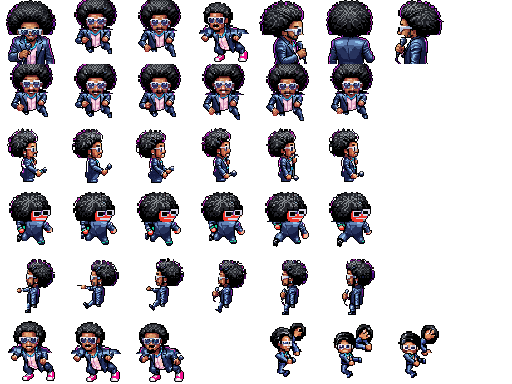
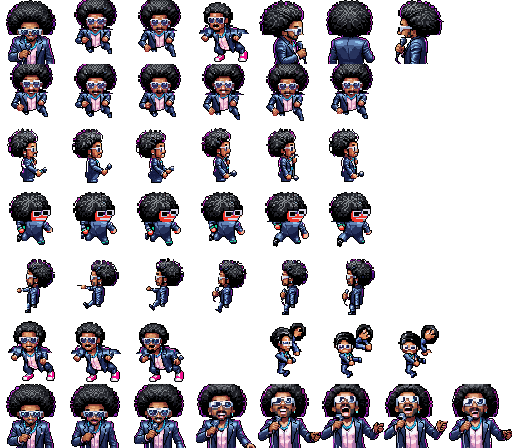
WIP: PixelLab sing/dance/wonk animations (in progress)
Claude-Session: https://claude.ai/code/session_01VMaYe2CeeKzcmBuCUqa9Rb

diff --git a/src/game/scenes/ClubScene.ts b/src/game/scenes/ClubScene.ts
@@ -10,7 +10,7 @@ import { switchTo } from "../Flow";
 import { synth } from "../audio/Synth";
 import { FONT, title } from "../ui/theme";
 import { dir, say } from "../../content/dsl";
-import { animateWalker, backdrop } from "../gfx/HD";
+import { animateWalker, backdrop, perfCycle, playPerf } from "../gfx/HD";
 import { bump, maxBottles } from "../systems/stats";
 import { CHARACTERS, PLAYABLE_ORDER } from "../../data/characters";
 import { TOUCH } from "../ui/TouchControls";
@@ -68,6 +68,8 @@ interface Rival {
   skill: number;
   result?: "perfect" | "over" | "under";
   finishedAt?: number;
+  /** where they are in their wonk loop (real art only) */
+  pumpPhase?: number;
   fill?: Phaser.GameObjects.Rectangle;
   label?: Phaser.GameObjects.Text;
 }
@@ -246,10 +248,12 @@ export class ClubScene extends Phaser.Scene {
     // the routine
     if (!this.onBreak && !this.dancerDown) {
       const t = time / 1000;
-      this.dancer.x = 430 + Math.sin(t * 1.3) * 60;
-      this.dancer.y = 330 - Math.abs(Math.sin(t * 3.2)) * 8;
-      // hip sway on the beat, turning to face each side now and then
-      if (!this.tweens.isTweening(this.dancer)) this.dancer.setAngle(Math.sin(t * 6.3) * 9);
+      // the real routine when the art has it; otherwise the old hip-sway wobble
+      const real = playPerf(this.dancer, "dance", time, 9);
+      this.dancer.x = 430 + Math.sin(t * 1.3) * (real ? 45 : 60);
+      this.dancer.y = real ? 330 : 330 - Math.abs(Math.sin(t * 3.2)) * 8;
+      // turning to face each side now and then
+      if (!real && !this.tweens.isTweening(this.dancer)) this.dancer.setAngle(Math.sin(t * 6.3) * 9);
       this.dancer.setFlipX(Math.floor(t / 1.9) % 2 === 1);
       if (Math.random() < 0.004) this.tweens.add({ targets: this.dancer, angle: 360, duration: 500, onComplete: () => this.dancer.setAngle(0) });
       if (time > this.nextSwap && !this.busy) this.swapDancer();
@@ -258,6 +262,12 @@ export class ClubScene extends Phaser.Scene {
     this.band.forEach((b, i) => {
       if (this.ko.has(b.spr) || this.musicStopped) return;
       const t = time / 1000 + i * 0.8;
+      // SanMik sings, SanChz dances; the old walk-and-bounce if the art isn't there
+      if (playPerf(b.spr, i ? "dance" : "sing", time, i ? 9 : 8) || playPerf(b.spr, "dance", time, 9, 3)) {
+        b.spr.x = b.x + Math.sin(t * 0.9) * 10;
+        b.spr.y = 335;
+        return;
+      }
       b.spr.x = b.x + Math.sin(t * 2) * 22;
       b.spr.y = 335 - Math.abs(Math.sin(t * 5.5)) * 9;
       animateWalker(b.spr, Math.cos(t * 2), 0, true, time);
@@ -586,7 +596,7 @@ export class ClubScene extends Phaser.Scene {
     const home = { x: this.dancer.x, y: this.dancer.y };
     this.tweens.add({ targets: this.dancer, x: this.me.x - 50, y: this.me.y - 6, duration: 500 });
     await new Promise((r) => this.time.delayedCall(550, r));
-    this.tweens.add({ targets: this.dancer, angle: { from: -10, to: 10 }, yoyo: true, repeat: 7, duration: 150 });
+    if (!perfCycle(this.dancer, "dance")) this.tweens.add({ targets: this.dancer, angle: { from: -10, to: 10 }, yoyo: true, repeat: 7, duration: 150 });
     await squeeze(this, (l) => this.talk(l), { name, spr: this.dancer }, this.me, [dir(`${name} does a private dance for you. It's mostly spinning. It's very good spinning.`)]);
     this.dancer.setAngle(0);
     this.tweens.add({ targets: this.dancer, x: home.x, y: home.y, duration: 500 });
@@ -665,6 +675,7 @@ export class ClubScene extends Phaser.Scene {
       const all: Rival[] = ids.map((id, i) => {
         const spr = this.add.sprite(x0 + i * gap, 250, `spr_${id}`, 0).setScale(3.2);
         spr.setData("x0", spr.x);
+        spr.setData("pump", perfCycle(spr, "wonk"));
         ui.add(spr);
         const wrist = addWrist(this, spr.x - 8, 278, { ...wristLook(id, CHARACTERS as any), scale: 1.6, speed: 90 + Math.random() * 60 });
         ui.add(wrist.obj);
@@ -708,6 +719,7 @@ export class ClubScene extends Phaser.Scene {
       const finishOne = (r: Rival, res: "perfect" | "over" | "under") => {
         r.result = res;
         r.finishedAt = t;
+        if (r.spr.getData("pump")) r.spr.setFrame(0);
         const txt = res === "perfect" ? "KREZZED!" : res === "over" ? "TOO EARLY" : "NOTHING";
         r.label = this.add.text(r.spr.x, 190, txt, { fontFamily: "Impact, sans-serif", fontSize: "20px", color: res === "perfect" ? "#ffffff" : "#f9a8d4", stroke: "#000", strokeThickness: 5 }).setOrigin(0.5).setScale(0.3);
         ui.add(r.label);
@@ -747,6 +759,12 @@ export class ClubScene extends Phaser.Scene {
             if (r.gauge >= Z.lo && r.gauge <= Z.hi) r.inZone += 16;
             r.fill!.setSize(20, 140 * r.gauge).setFillStyle(r.gauge > Z.hi ? 0xef4444 : r.gauge >= Z.lo ? 0x22c55e : 0xff4fa3);
             r.spr.setX((r.spr.getData("x0") as number) + (Math.random() - 0.5) * (2 + r.gauge * 8));
+            // arms pumping behind the bar, faster the closer they get
+            const pump = r.spr.getData("pump") as number[] | null;
+            if (pump) {
+              r.pumpPhase = (r.pumpPhase ?? 0) + 0.016 * (7 + r.gauge * 12);
+              r.spr.setFrame(pump[Math.floor(r.pumpPhase) % pump.length]);
+            }
             if (r.gauge >= OVER) finishOne(r, "over");
             else if (r.inZone >= r.zone.need) finishOne(r, "perfect");
           }

diff --git a/src/game/scenes/MinigameScene.ts b/src/game/scenes/MinigameScene.ts
@@ -12,7 +12,7 @@ import { addWrist, type Wrist } from "../gfx/Wrist";
 import { dir, gabor, say } from "../../content/dsl";
 import { arcStepAt, completeStep, maybeFinishArc } from "../systems/arcs";
 import { bump } from "../systems/stats";
-import { animateWalker, backdrop } from "../gfx/HD";
+import { animateWalker, backdrop, perfCycle, playPerf } from "../gfx/HD";
 import { CHARACTERS, PLAYABLE_ORDER } from "../../data/characters";
 import { TOUCH } from "../ui/TouchControls";
 
@@ -1411,10 +1411,14 @@ export class MinigameScene extends Phaser.Scene {
         if (keys?.D.isDown || keys?.RIGHT.isDown) moveDir = 1;
         if (holdX !== null && Math.abs(holdX - benn.x) > 12) moveDir = holdX < benn.x ? -1 : 1;
         benn.x = Phaser.Math.Clamp(benn.x + moveDir * 0.32 * dt, 120, 840);
-        if (now >= pranceUntil) animateWalker(benn, moveDir, 0, moveDir !== 0, now);
-        // crowd bounces to the beat
+        // standing still, he rocks out (real art); otherwise the walk cycle
+        if (now >= pranceUntil && (moveDir !== 0 || !playPerf(benn, "dance", now, 9))) animateWalker(benn, moveDir, 0, moveDir !== 0, now);
+        // crowd bounces to the beat (and cheers, where the art has a cheer)
         const beat = Math.sin(now / 160);
-        crowd.forEach((c, i) => c.setY(470 + (i % 2) * 22 - Math.max(0, Math.sin(now / 160 + i)) * 10));
+        crowd.forEach((c, i) => {
+          c.setY(470 + (i % 2) * 22 - Math.max(0, Math.sin(now / 160 + i)) * 10);
+          playPerf(c, "victory", now, 7, i);
+        });
         lights.forEach((l, i) => l.setAlpha(0.1 + Math.max(0, Math.sin(now / 300 + i)) * 0.18));
         void beat;
         // catches
@@ -1470,6 +1474,7 @@ export class MinigameScene extends Phaser.Scene {
     let caught = 0;
     let target = 480;
     let pranceUntil = 0;
+    let rockUntil = 0;
     let holdX: number | null = null;
     let lastThrow = 0;
     const keys = this.input.keyboard?.addKeys("A,D,LEFT,RIGHT") as Record<string, Phaser.Input.Keyboard.Key> | undefined;
@@ -1613,10 +1618,15 @@ export class MinigameScene extends Phaser.Scene {
       callback: () => {
         if (this.ended) return;
         const now = this.time.now;
-        // Krebon performs: wanders the stage and prances
-        if (Math.abs(target - krebon.x) < 6 || Math.random() < 0.004) target = 140 + Math.random() * 680;
-        const dir0 = Math.sign(target - krebon.x);
-        if (now >= pranceUntil) {
+        // Krebon performs: wanders the stage, stops to rock out (real art only), and prances
+        if (now < rockUntil) {
+          playPerf(krebon, "dance", now, 9);
+        } else if (Math.abs(target - krebon.x) < 6 || Math.random() < 0.004) {
+          target = 140 + Math.random() * 680;
+          if (perfCycle(krebon, "dance") && Math.random() < 0.7) rockUntil = now + 1800 + Math.random() * 2600;
+        }
+        const dir0 = now < rockUntil ? 0 : Math.sign(target - krebon.x);
+        if (now >= pranceUntil && now >= rockUntil) {
           krebon.x += dir0 * 0.18 * 16;
           animateWalker(krebon, dir0, 0, dir0 !== 0, now);
           if (Math.random() < 0.006) {
@@ -1650,7 +1660,10 @@ export class MinigameScene extends Phaser.Scene {
           }
         }
         animateWalker(me, mv, 0, mv !== 0, now);
-        crowd.forEach((c, i) => c.setY(478 + (i % 2) * 20 - Math.max(0, Math.sin(now / 160 + i)) * 10));
+        crowd.forEach((c, i) => {
+          c.setY(478 + (i % 2) * 20 - Math.max(0, Math.sin(now / 160 + i)) * 10);
+          playPerf(c, "victory", now, 7, i);
+        });
         lights.forEach((l, i) => l.setAlpha(0.1 + Math.max(0, Math.sin(now / 300 + i)) * 0.18));
         const pr = synth.fileProgress();
         const elapsed = (now - start) / 1000;

diff --git a/src/game/combat/Wonk.ts b/src/game/combat/Wonk.ts
@@ -4,6 +4,7 @@ import { TOUCH } from "../ui/TouchControls";
 import { activeMods } from "../../data/historicalRevisions";
 import { G } from "../G";
 import { addWrist, wristLook } from "../gfx/Wrist";
+import { perfCycle } from "../gfx/HD";
 import { CHARACTERS } from "../../data/characters";
 import type { Player } from "./Player";
 import { kd } from "../systems/kreddle";
@@ -81,6 +82,9 @@ export function startWonk(p: Player, now: number) {
   // the wrist, going like the clappers under the bar
   const wrist = addWrist(sc, 306, 340, { ...wristLook(p.id, CHARACTERS as any), scale: 2.2 });
   ui.add(wrist.obj);
+  // the real thing, when the art has it: an arm pumping away (the business end stays behind the bar)
+  const pump = perfCycle(hero, "wonk");
+  let pumpPhase = 0;
   // keep it decent: a big censor bar over the business end
   const bar = sc.add.rectangle(320, 352, 170, 54, 0x000000);
   const barT = sc.add.text(320, 352, "CENSORED", { fontFamily: "Impact, sans-serif", fontSize: "24px", color: "#ffffff" }).setOrigin(0.5);
@@ -168,6 +172,10 @@ export function startWonk(p: Player, now: number) {
         nextMoan = t + 380 + Math.random() * 260 - Math.min(180, rate * 22);
         const k = Math.min(1, gauge * 1.1);
         synth.voice(gauge > ZONE_HI ? "grunt" : zone ? "oh" : Math.random() < 0.3 ? "grunt" : "mmm", 0.22 + k * 0.38, pitch * (0.88 + k * 0.4));
+      }
+      if (pump && rate > 0) {
+        pumpPhase += (dt / 1000) * Math.min(20, 5 + rate * 2.5);
+        hero.setFrame(pump[Math.floor(pumpPhase) % pump.length]);
       }
       hero.setX(320 + (Math.random() - 0.5) * Math.min(14, rate * 1.6));
       hero.setAngle((Math.random() - 0.5) * Math.min(8, rate));

diff --git a/src/game/gfx/HD.ts b/src/game/gfx/HD.ts
@@ -21,6 +21,10 @@ export interface CharMeta {
   hurt?: Record<string, number[]>;
   victory?: Record<string, number[]>;
   death?: Record<string, number[]>;
+  /** performance loops (south; some also east): dancing, singing into a mic, wonking (always drawn behind a censor bar) */
+  dance?: Record<string, number[]>;
+  sing?: Record<string, number[]>;
+  wonk?: Record<string, number[]>;
 }
 
 export interface ArtManifest {
@@ -121,6 +125,27 @@ export function attackFrame(spr: Phaser.GameObjects.Sprite, t = 0.5): number {
   const cyc = meta.attack[f] ?? meta.attack.east ?? meta.attack.south;
   if (!cyc) return 3;
   return cyc[Math.min(cyc.length - 1, Math.floor(t * cyc.length))];
+}
+
+export type PerfKind = "dance" | "sing" | "wonk" | "victory";
+
+/** The frames of a performance loop for this sprite's texture, or null when the art doesn't have it. */
+export function perfCycle(spr: Phaser.GameObjects.Sprite, kind: PerfKind, dir = "south"): number[] | null {
+  const meta = charMeta(spr.scene, spr.texture.key);
+  const cyc = meta?.[kind]?.[dir] ?? meta?.[kind]?.south;
+  return cyc?.length ? cyc : null;
+}
+
+/**
+ * Show frame `now` of a performance loop (dancing, singing, wonking) at `fps`. Returns false, and
+ * leaves the sprite alone, when the texture has no such loop, so callers keep their old fake.
+ * `offset` staggers several performers on the same loop.
+ */
+export function playPerf(spr: Phaser.GameObjects.Sprite, kind: PerfKind, now: number, fps = 9, offset = 0, dir = "south"): boolean {
+  const cyc = perfCycle(spr, kind, dir);
+  if (!cyc) return false;
+  spr.setFrame(cyc[(Math.floor((now / 1000) * fps) + offset) % cyc.length]);
+  return true;
 }
 
 /**

diff --git a/src/game/scenes/VenueScene.ts b/src/game/scenes/VenueScene.ts
@@ -6,7 +6,7 @@ import { switchTo } from "../Flow";
 import { synth } from "../audio/Synth";
 import { FONT, title } from "../ui/theme";
 import { dir, say } from "../../content/dsl";
-import { animateWalker, backdrop } from "../gfx/HD";
+import { animateWalker, backdrop, playPerf } from "../gfx/HD";
 import { bump } from "../systems/stats";
 
 /** SanMik & SanChz's back catalogue (the files are ggg1..ggg13). */
@@ -189,6 +189,12 @@ export class VenueScene extends Phaser.Scene {
         return;
       }
       const t = time / 1000 + i * 0.7;
+      // the real act when the art has it: SanMik on the mic, SanChz dancing
+      if (!this.tweens.isTweening(p.spr) && (playPerf(p.spr, i ? "dance" : "sing", time, i ? 9 : 8) || playPerf(p.spr, "dance", time, 9, 3))) {
+        p.spr.x = p.home.x + Math.sin(t * 0.9) * 14;
+        p.spr.y = p.home.y;
+        return;
+      }
       p.spr.x = p.home.x + Math.sin(t * 2.2) * 50;
       p.spr.y = p.home.y - Math.abs(Math.sin(t * 6)) * 10;
       animateWalker(p.spr, Math.cos(t * 2.2), 0, true, time);
